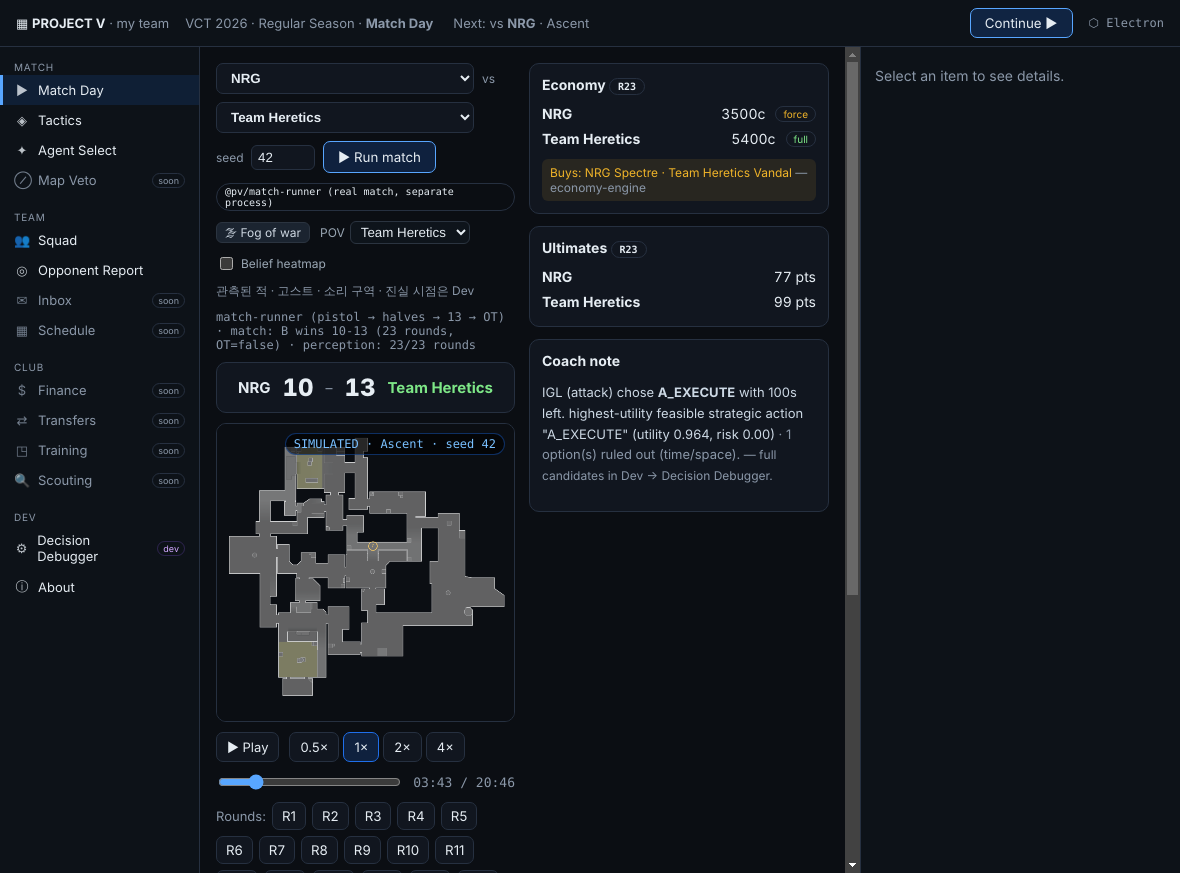
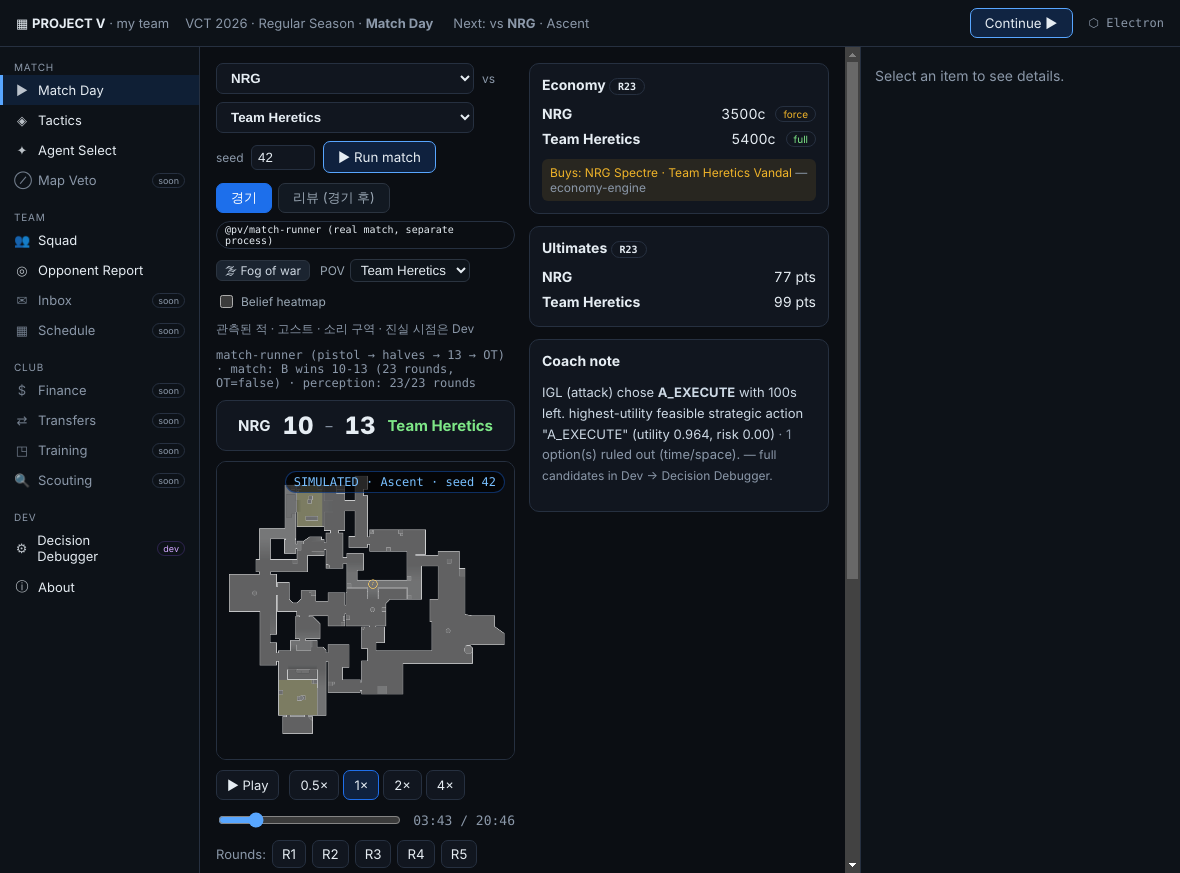
feat(desktop): post-match Review tab (manager-game convention)
Add a "리뷰 (경기 후)" tab to Match Day, shown once a match finishes. All
stats come from the real match-runner summary and the simulated replay.

- review.ts: economySeries(match) for the credit timeline; computeMvp(match,
  replay) attributing per-slot kills/survival to each real team via the
  round's attacker (side→team), mapped to deterministic real handles
  (simulated performance, real handles — labelled as synthetic attribution).
- ReviewPanel: round-result strip (W/L · end reason · buy tier), economy
  timeline SVG (both teams' credits), key-decision cards from PV-3 IGL
  decision traces (selected action + rationale + ruled-out count), match MVP
  (kills + survived, real handle) with a top-6 table, and a post-match
  ground-truth replay view — allowed here and labelled "경기 후 전체 시점"
  because the match is over (Match Day's live view stays fog-only).
- MatchDay: 경기 / 리뷰 tab switch; review replaces the live panels.
- review.test.ts: economySeries, rosterFor determinism, computeMvp side→team
  attribution (12/12 desktop unit tests).
- e2e: open the review tab, assert strip/economy/decisions/MVP, screenshot.

Claude-Session: https://claude.ai/code/session_01LWa7NkbrNBxuB6aZzZDJoJ

Changed region(s): [[0.1831, 0.1856, 0.4271, 1.0], [0.7017, 0.6495, 0.7322, 0.6804]]

diff --git a/apps/desktop/src/renderer/screens/ReviewPanel.tsx b/apps/desktop/src/renderer/screens/ReviewPanel.tsx
@@ -1,0 +1,140 @@
+// Post-match Review (manager-game convention). Shown after a match finishes, from
+// the Match Day "리뷰" tab. Everything here is from the REAL match-runner summary +
+// the simulated replay. The match is over, so the ground-truth replay is allowed here
+// (labelled "경기 후 전체 시점") — unlike the live Match Day fog view.
+import { useEffect, useMemo, useState } from 'react';
+import { ReplayViewer } from '@pv/replay-viewer';
+import type { Replay } from '@pv/replay-engine';
+import type { MatchSummary } from '../../shared/ipc.ts';
+import { bridge } from '../platform.ts';
+import { parseTrace, type DecisionTrace } from '../../shared/trace.ts';
+import { computeMvp, economySeries } from '../review.ts';
+
+const REASON_SHORT: Record<string, string> = {
+  elimination: 'elim', spikeDetonation: 'spike', spikeDefused: 'defuse', timeExpired: 'time',
+};
+
+export function ReviewPanel({ match, replay }: { match: MatchSummary; replay: Replay | null }) {
+  const [traces, setTraces] = useState<DecisionTrace[]>([]);
+  useEffect(() => {
+    let alive = true;
+    (async () => {
+      const ids = await bridge.listTraces().catch(() => [] as string[]);
+      const loaded = await Promise.all(ids.map((id) =>
+        bridge.loadTrace(id).then((j) => { try { return parseTrace(j); } catch { return null; } }).catch(() => null)));
+      if (alive) setTraces(loaded.filter((t): t is DecisionTrace => !!t));
+    })();
+    return () => { alive = false; };
+  }, []);
+
+  const econ = useMemo(() => economySeries(match), [match]);
+  const { mvp, lines } = useMemo(() => (replay ? computeMvp(match, replay) : { mvp: null, lines: [] }), [match, replay]);
+  const teamClass = (t: 'A' | 'B') => (t === 'A' ? 'rv-a' : 'rv-b');
+
+  // economy timeline geometry
+  const W = 560; const H = 150; const PAD = 28;
+  const maxC = Math.max(9000, ...econ.flatMap((p) => [p.a, p.b]));
+  const x = (i: number) => PAD + (econ.length <= 1 ? 0 : (i / (econ.length - 1)) * (W - PAD * 2));
+  const y = (c: number) => H - PAD - (c / maxC) * (H - PAD * 2);
+  const path = (sel: (p: { a: number; b: number }) => number) =>
+    econ.map((p, i) => `${i === 0 ? 'M' : 'L'}${x(i).toFixed(1)},${y(sel(p)).toFixed(1)}`).join(' ');
+
+  return (
+    <div className="review" data-testid="review-panel">
+      <div className="rev-head">
+        <span className="rev-score">
+          <b className={match.winner === 'A' ? 'win' : ''}>{match.teams.A.name}</b> {match.score.A}
+          <span className="muted"> – </span>{match.score.B} <b className={match.winner === 'B' ? 'win' : ''}>{match.teams.B.name}</b>
+        </span>
+        <span className="muted small">{match.map} · seed {match.seed}{match.wentToOvertime ? ' · OT' : ''} · {match.rounds.length} rounds</span>
+      </div>
+
+      {/* round result strip */}
+      <section className="rev-card">
+        <div className="attr-grouplabel">Round results <span className="muted small">({match.teams.A.name} 관점 · W/L · 종료 사유 · 구매)</span></div>
+        <div className="rev-strip" data-testid="rev-strip">
+          {match.rounds.map((r) => {
+            const won = r.winner === 'A';
+            return (
+              <div key={r.roundNumber} className={`rev-rcell ${won ? 'w' : 'l'}`} title={`R${r.roundNumber} ${r.phase} · ${won ? 'WIN' : 'LOSS'} · ${r.reason} · A ${r.buys.A.tier}/${r.buys.A.weapon} · B ${r.buys.B.tier}/${r.buys.B.weapon}`}>
+                <span className="rc-n">{r.roundNumber}</span>
+                <span className="rc-wl">{won ? 'W' : 'L'}</span>
+                <span className="rc-reason">{REASON_SHORT[r.reason] ?? r.reason.slice(0, 5)}</span>
+                <span className={`rc-buy buy-${r.buys.A.tier}`}>{r.buys.A.tier}</span>
+              </div>
+            );
+          })}
+        </div>
+      </section>
+
+      {/* economy timeline */}
+      <section className="rev-card">
+        <div className="attr-grouplabel">Economy timeline <span className="muted small">(credits at buy, both teams)</span></div>
+        <svg className="rev-econ" viewBox={`0 0 ${W} ${H}`} data-testid="rev-econ" role="img" aria-label="economy timeline">
+          <line x1={PAD} y1={H - PAD} x2={W - PAD} y2={H - PAD} stroke="#2b3440" />
+          <line x1={PAD} y1={PAD} x2={PAD} y2={H - PAD} stroke="#2b3440" />
+          <path d={path((p) => p.a)} fill="none" stroke="#3cdcff" strokeWidth={2} />
+          <path d={path((p) => p.b)} fill="none" stroke="#ff9f40" strokeWidth={2} />
+          <text x={W - PAD} y={PAD - 8} fill="#3cdcff" fontSize={10} textAnchor="end">{match.teams.A.name}</text>
+          <text x={W - PAD} y={PAD + 6} fill="#ff9f40" fontSize={10} textAnchor="end">{match.teams.B.name}</text>
+        </svg>
+      </section>
+
+      {/* key decision cards (PV-3 decision traces) */}
+      <section className="rev-card">
+        <div className="attr-grouplabel">Key decisions <span className="muted small">(PV-3 IGL decision traces · 선택 + 근거 + 제외 대안)</span></div>
+        {traces.length === 0 ? <div className="row small muted">loading decision traces…</div> : (
+          <div className="rev-decisions">
+            {traces.map((t, i) => (
+              <div key={i} className="rev-dcard" data-testid="rev-decision">
+                <div className="rev-dhead">
+                  <span className="pill">{t.world.decidingSide}</span>
+                  <b>{t.selected?.id ?? '—'}</b>
+                  <span className="muted small">{(t.timeRemainingMs / 1000).toFixed(0)}s left</span>
+                </div>
+                <p className="rev-drationale small">{t.selected?.rationale ?? 'no action selected'}</p>
+                <div className="muted small">{t.excluded.length} option(s) ruled out (time/space) · full breakdown in Dev → Decision Debugger</div>
+              </div>
+            ))}
+          </div>
+        )}
+      </section>
+
+      {/* MVP */}
+      <section className="rev-card" data-testid="rev-mvp">
+        <div className="attr-grouplabel">Match MVP <span className="muted small">(kills + 생존 · 실명 핸들 · 로스터 귀속은 합성)</span></div>
+        {mvp ? (
+          <>
+            <div className="rev-mvpline">
+              <span className={`mvp-badge ${teamClass(mvp.team)}`}>MVP</span>
+              <b>{mvp.handle}</b> <span className="muted small">({mvp.teamName})</span>
+              <span className="mvp-stat">{mvp.kills} K</span>
+              <span className="mvp-stat muted">{mvp.survived}/{match.rounds.length} survived</span>
+            </div>
+            <table className="rev-mvptable">
+              <tbody>
+                {lines.slice(0, 6).map((l, i) => (
+                  <tr key={i} className={i === 0 ? 'top' : ''}>
+                    <td className="muted">{i + 1}</td>
+                    <td><b>{l.handle}</b> <span className={`tag ${teamClass(l.team)}`}>{l.teamName}</span></td>
+                    <td>{l.kills} K</td>
+                    <td className="muted">{l.deaths} D</td>
+                    <td className="muted small">{l.score} pts</td>
+                  </tr>
+                ))}
+              </tbody>
+            </table>
+          </>
+        ) : <div className="row small muted">no kill data</div>}
+      </section>
+
+      {/* post-match ground truth — allowed because the match is over */}
+      {replay && (
+        <section className="rev-card">
+          <div className="attr-grouplabel">경기 후 전체 시점 <span className="muted small">(post-match full view — ground truth, match is over)</span></div>
+          <ReplayViewer replay={replay} size={560} />
+        </section>
+      )}
+    </div>
+  );
+}

diff --git a/apps/desktop/src/renderer/review.ts b/apps/desktop/src/renderer/review.ts
@@ -1,0 +1,94 @@
+// Post-match review derivations. All stats come from the REAL match-runner summary
+// and the simulated replay's kill events. Player identity: the simulator plays with
+// side-slot rosters (atk1..def5), not real people, so per-slot stats are attributed
+// to each real team's five handles by a deterministic (synthetic) roster map — real
+// handles, simulated performance (see RATINGS_DISCLAIMER). Clearly labelled in the UI.
+import type { Replay } from '@pv/replay-engine';
+import type { MatchSummary } from '../shared/ipc.ts';
+import { players, type JoinedPlayer } from './data.ts';
+
+export interface EconomyPoint { round: number; a: number; b: number }
+/** Both teams' credit-at-buy per round, for the economy timeline graph. */
+export function economySeries(match: MatchSummary): EconomyPoint[] {
+  return match.rounds.map((r) => ({ round: r.roundNumber, a: r.economy.A.credits, b: r.economy.B.credits }));
+}
+
+// Deterministic 5-handle roster for a team, stable per team name. Picks distinct
+// real handles from the player pool so each team shows its own five people.
+function hash(s: string): number {
+  let h = 2166136261;
+  for (let i = 0; i < s.length; i++) { h ^= s.charCodeAt(i); h = Math.imul(h, 16777619); }
+  return h >>> 0;
+}
+export function rosterFor(teamName: string, pool: JoinedPlayer[]): string[] {
+  if (pool.length === 0) return ['P1', 'P2', 'P3', 'P4', 'P5'];
+  const start = hash(teamName) % pool.length;
+  const step = 7 + (hash(teamName + '·') % 11); // coprime-ish stride for spread
+  const out: string[] = [];
+  const seen = new Set<number>();
+  for (let k = 0; out.length < 5 && k < pool.length; k++) {
+    const idx = (start + k * step) % pool.length;
+    if (seen.has(idx)) continue;
+    seen.add(idx);
+    out.push(pool[idx].handle);
+  }
+  while (out.length < 5) out.push(`P${out.length + 1}`);
+  return out;
+}
+
+export interface PlayerLine {
+  team: 'A' | 'B'; teamName: string; slot: number; handle: string;
+  kills: number; deaths: number; survived: number; score: number;
+}
+export interface MvpResult { mvp: PlayerLine | null; lines: PlayerLine[] }
+
+const sideSlot = (id: string): { side: 'attack' | 'defense'; slot: number } | null => {
+  const m = /^(atk|def)(\d+)$/.exec(id);
+  if (!m) return null;
+  return { side: m[1] === 'atk' ? 'attack' : 'defense', slot: Number(m[2]) };
+};
+
+/**
+ * MVP + per-player lines from the replay's kill events. A kill/death is attributed
+ * to (real team, slot) via the round's attacker (side→team), then to a real handle.
+ * Score = 2·kills + survived rounds (simple, as asked).
+ */
+export function computeMvp(match: MatchSummary, replay: Replay): MvpResult {
+  const pool = players();
+  const rosters: Record<'A' | 'B', string[]> = {
+    A: rosterFor(match.teams.A.name, pool),
+    B: rosterFor(match.teams.B.name, pool),
+  };
+  const byRound = new Map(match.rounds.map((r) => [r.roundNumber, r]));
+  const key = (t: 'A' | 'B', slot: number) => `${t}:${slot}`;
+  const stat = new Map<string, { kills: number; deaths: number }>();
+  const bump = (t: 'A' | 'B', slot: number, field: 'kills' | 'deaths') => {
+    const k = key(t, slot);
+    const s = stat.get(k) ?? { kills: 0, deaths: 0 };
+    s[field] += 1; stat.set(k, s);
+  };
+  const teamOfSide = (round: MatchSummary['rounds'][number], side: 'attack' | 'defense'): 'A' | 'B' =>
+    side === 'attack' ? round.attacker : (round.attacker === 'A' ? 'B' : 'A');
+
+  for (const e of replay.events) {
+    if (e.kind !== 'kill') continue;
+    const round = e.roundNum != null ? byRound.get(e.roundNum) : undefined;
+    if (!round) continue;
+    if (e.actorId) { const k = sideSlot(e.actorId); if (k) bump(teamOfSide(round, k.side), k.slot, 'kills'); }
+    if (e.victimId) { const v = sideSlot(e.victimId); if (v) bump(teamOfSide(round, v.side), v.slot, 'deaths'); }
+  }
+
+  const totalRounds = match.rounds.length;
+  const lines: PlayerLine[] = (['A', 'B'] as const).flatMap((team) =>
+    [1, 2, 3, 4, 5].map((slot) => {
+      const s = stat.get(key(team, slot)) ?? { kills: 0, deaths: 0 };
+      const survived = Math.max(0, totalRounds - s.deaths);
+      return {
+        team, teamName: match.teams[team].name, slot, handle: rosters[team][slot - 1] ?? `P${slot}`,
+        kills: s.kills, deaths: s.deaths, survived, score: s.kills * 2 + survived,
+      };
+    }),
+  );
+  lines.sort((a, b) => b.score - a.score || b.kills - a.kills);
+  return { mvp: lines[0] ?? null, lines };
+}

diff --git a/apps/desktop/test/review.test.ts b/apps/desktop/test/review.test.ts
@@ -1,0 +1,68 @@
+// Unit tests for post-match review derivations (review.ts).
+import { test } from 'node:test';
+import assert from 'node:assert/strict';
+import { computeMvp, economySeries, rosterFor } from '../src/renderer/review.ts';
+import { players } from '../src/renderer/data.ts';
+import type { MatchSummary } from '../src/shared/ipc.ts';
+import type { Replay } from '@pv/replay-engine';
+
+function round(n: number, attacker: 'A' | 'B', over: Partial<MatchSummary['rounds'][number]> = {}): MatchSummary['rounds'][number] {
+  return {
+    roundNumber: n, phase: n === 1 ? 'pistol' : 'regulation', attacker,
+    winner: 'A', winnerSide: 'attack', reason: 'elimination', planted: false,
+    score: { A: n, B: 0 }, kills: { A: 5, B: 0 },
+    economy: { A: { credits: 1000 * n, ultPoints: n }, B: { credits: 500 * n, ultPoints: 0 } },
+    buys: { A: { tier: 'full', weapon: 'Vandal' }, B: { tier: 'eco', weapon: 'Classic' } },
+    ...over,
+  };
+}
+const match: MatchSummary = {
+  teams: { A: { id: 'a', name: 'Alpha' }, B: { id: 'b', name: 'Bravo' } },
+  map: 'ascent', seed: 1, winner: 'A', score: { A: 2, B: 0 }, wentToOvertime: false,
+  rounds: [round(1, 'A'), round(2, 'B')],
+};
+
+// Replay with kill events only (the shape computeMvp reads).
+const replay = {
+  meta: { source: 'simulation', mapId: 'ascent' },
+  players: [], tracks: [], rounds: [],
+  events: [
+    // round 1: A attacks → atk* = team A, def* = team B
+    { tMs: 1000, roundNum: 1, kind: 'kill', actorId: 'atk1', victimId: 'def1' },
+    { tMs: 2000, roundNum: 1, kind: 'kill', actorId: 'atk1', victimId: 'def2' },
+    // round 2: B attacks → atk* = team B, def* = team A
+    { tMs: 3000, roundNum: 2, kind: 'kill', actorId: 'atk3', victimId: 'def4' },
+  ],
+} as unknown as Replay;
+
+test('economySeries returns both teams credits per round', () => {
+  const s = economySeries(match);
+  assert.deepEqual(s, [{ round: 1, a: 1000, b: 500 }, { round: 2, a: 2000, b: 1000 }]);
+});
+
+test('rosterFor is deterministic, length 5, distinct, and team-specific', () => {
+  const pool = players();
+  const r1 = rosterFor('Alpha', pool);
+  const r2 = rosterFor('Alpha', pool);
+  assert.equal(r1.length, 5);
+  assert.deepEqual(r1, r2); // deterministic
+  assert.equal(new Set(r1).size, 5); // distinct
+  assert.notDeepEqual(rosterFor('Bravo', pool), r1); // different team → different handles
+});
+
+test('computeMvp attributes kills/deaths to the right real team via round attacker', () => {
+  const { mvp, lines } = computeMvp(match, replay);
+  // atk1 scored 2 kills in round 1 (team A) → team A slot 1 has 2 kills, top MVP.
+  assert.ok(mvp);
+  assert.equal(mvp!.team, 'A');
+  assert.equal(mvp!.slot, 1);
+  assert.equal(mvp!.kills, 2);
+  // round 2 atk3 = team B slot 3 scored 1 kill; def4 = team A slot 4 died.
+  const bSlot3 = lines.find((l) => l.team === 'B' && l.slot === 3)!;
+  assert.equal(bSlot3.kills, 1);
+  const aSlot4 = lines.find((l) => l.team === 'A' && l.slot === 4)!;
+  assert.equal(aSlot4.deaths, 1);
+  assert.equal(aSlot4.survived, match.rounds.length - 1);
+  // every line carries a real handle (not an empty/placeholder)
+  assert.ok(lines.every((l) => l.handle && !l.handle.startsWith('P')));
+});

diff --git a/apps/desktop/src/renderer/styles.css b/apps/desktop/src/renderer/styles.css
@@ -143,3 +143,34 @@ h2 { font-size:17px; margin:0 0 10px; } h3 { font-size:14px; margin:0 0 8px; }
   border-radius: 6px; padding: 3px 10px; cursor: pointer; }
 .fog-demo:hover { border-color: #4f7bb0; }
 .dev-truth { padding: 8px 12px; }
+
+/* ── Post-match Review ────────────────────────────────────────────── */
+.md-tabs { display: flex; gap: 6px; margin: 2px 0 8px; }
+.md-tabs button { background: #121922; color: #9aa7b4; border: 1px solid #2b3440;
+  border-radius: 7px; padding: 5px 14px; font-size: 13px; cursor: pointer; }
+.md-tabs button.on { background: #1d6feb; color: #fff; border-color: #1d6feb; }
+.review { display: flex; flex-direction: column; gap: 12px; }
+.rev-head { display: flex; align-items: baseline; justify-content: space-between; gap: 10px; flex-wrap: wrap; }
+.rev-score { font-size: 17px; } .rev-score .win { color: #3fb950; }
+.rev-card { background: #0e141b; border: 1px solid #202a36; border-radius: 10px; padding: 10px 12px; }
+.rev-strip { display: flex; flex-wrap: wrap; gap: 4px; }
+.rev-rcell { display: flex; flex-direction: column; align-items: center; width: 42px; padding: 3px 0;
+  border-radius: 6px; border: 1px solid #2b3440; font-size: 10px; line-height: 1.3; }
+.rev-rcell.w { background: rgba(63,185,80,0.14); border-color: #2c6b38; }
+.rev-rcell.l { background: rgba(248,81,73,0.12); border-color: #6b2c2c; }
+.rev-rcell .rc-n { color: #e6edf3; font-weight: 600; } .rev-rcell .rc-wl { font-weight: 700; }
+.rev-rcell.w .rc-wl { color: #3fb950; } .rev-rcell.l .rc-wl { color: #f85149; }
+.rev-rcell .rc-reason, .rev-rcell .rc-buy { color: #8b97a4; }
+.rev-econ { width: 100%; height: auto; background: #0b0f15; border-radius: 8px; }
+.rev-decisions { display: grid; grid-template-columns: 1fr 1fr; gap: 8px; }
+.rev-dcard { background: #121922; border: 1px solid #202a36; border-radius: 8px; padding: 8px 10px; }
+.rev-dhead { display: flex; align-items: center; gap: 8px; }
+.rev-drationale { margin: 5px 0; color: #cbd5e1; }
+.rev-mvpline { display: flex; align-items: center; gap: 8px; margin-bottom: 8px; }
+.mvp-badge { font-size: 11px; font-weight: 700; color: #0b0e13; background: #ffd166;
+  border-radius: 5px; padding: 2px 7px; } .mvp-badge.rv-a { background: #3cdcff; } .mvp-badge.rv-b { background: #ff9f40; }
+.mvp-stat { font-size: 13px; } .rev-mvptable { width: 100%; border-collapse: collapse; font-size: 13px; }
+.rev-mvptable td { padding: 3px 6px; border-top: 1px solid #1a2027; }
+.rev-mvptable tr.top td { background: rgba(255,209,102,0.06); }
+.rev-mvptable .tag { font-size: 10px; padding: 1px 5px; border-radius: 4px; background: #1b2430; color: #9aa7b4; }
+.rev-mvptable .tag.rv-a { color: #3cdcff; } .rev-mvptable .tag.rv-b { color: #ff9f40; }

diff --git a/apps/desktop/src/renderer/screens/MatchDayScreen.tsx b/apps/desktop/src/renderer/screens/MatchDayScreen.tsx
@@ -15,6 +15,7 @@ import { parseTrace, type DecisionTrace } from '../../shared/trace.ts';
 import type { MatchSummary } from '../../shared/ipc.ts';
 import { teams } from '../data.ts';
 import { ZONE_POSITIONS } from '../zones.ts';
+import { ReviewPanel } from './ReviewPanel.tsx';
 
 export function MatchDayScreen({ ctx }: { ctx: ScreenCtx }) {
   const [running, setRunning] = useState(false);
@@ -29,6 +30,7 @@ export function MatchDayScreen({ ctx }: { ctx: ScreenCtx }) {
   const [seed, setSeed] = useState(42);
   const [pov, setPov] = useState(0);            // fog point of view: 0 = our team (A), 1 = B
   const [beliefOn, setBeliefOn] = useState(false);
+  const [tab, setTab] = useState<'match' | 'review'>('match'); // post-match review tab
   const replay = ctx.replay;
   const refOf = (name: string) => { const t = allTeams.find((x) => x.name === name); return { id: t?.teamId ?? name, name }; };
   const lastRound = match?.rounds[match.rounds.length - 1];
@@ -70,6 +72,16 @@ export function MatchDayScreen({ ctx }: { ctx: ScreenCtx }) {
             {running ? `Simulating… ${Math.round(pct * 100)}%` : '▶ Run match'}
           </button>
         </div>
+        {match && (
+          <div className="md-tabs" data-testid="md-tabs">
+            <button className={tab === 'match' ? 'on' : ''} onClick={() => setTab('match')} data-testid="tab-match">경기</button>
+            <button className={tab === 'review' ? 'on' : ''} onClick={() => setTab('review')} data-testid="tab-review">리뷰 (경기 후)</button>
+          </div>
+        )}
+        {tab === 'review' && match ? (
+          <ReviewPanel match={match} replay={replay} />
+        ) : (
+        <>
         <div className="md-toolbar" data-testid="fog-toolbar">
           <span className="pill">{engineLabel}</span>
           {hasPerception ? (
@@ -134,8 +146,11 @@ export function MatchDayScreen({ ctx }: { ctx: ScreenCtx }) {
           ))}
           {!replay && <div className="row small muted">no events yet</div>}
         </div>
+        </>
+        )}
       </div>
 
+      {!(tab === 'review' && match) && (
       <aside className="md-side">
         <section className="md-card" data-testid="economy-panel">
           <h3>Economy {lastRound ? <span className="pill">R{lastRound.roundNumber}</span> : <span className="pill synth">—</span>}</h3>
@@ -170,6 +185,7 @@ export function MatchDayScreen({ ctx }: { ctx: ScreenCtx }) {
           ) : <div className="row small muted">loading trace…</div>}
         </section>
       </aside>
+      )}
     </div>
   );
 }
